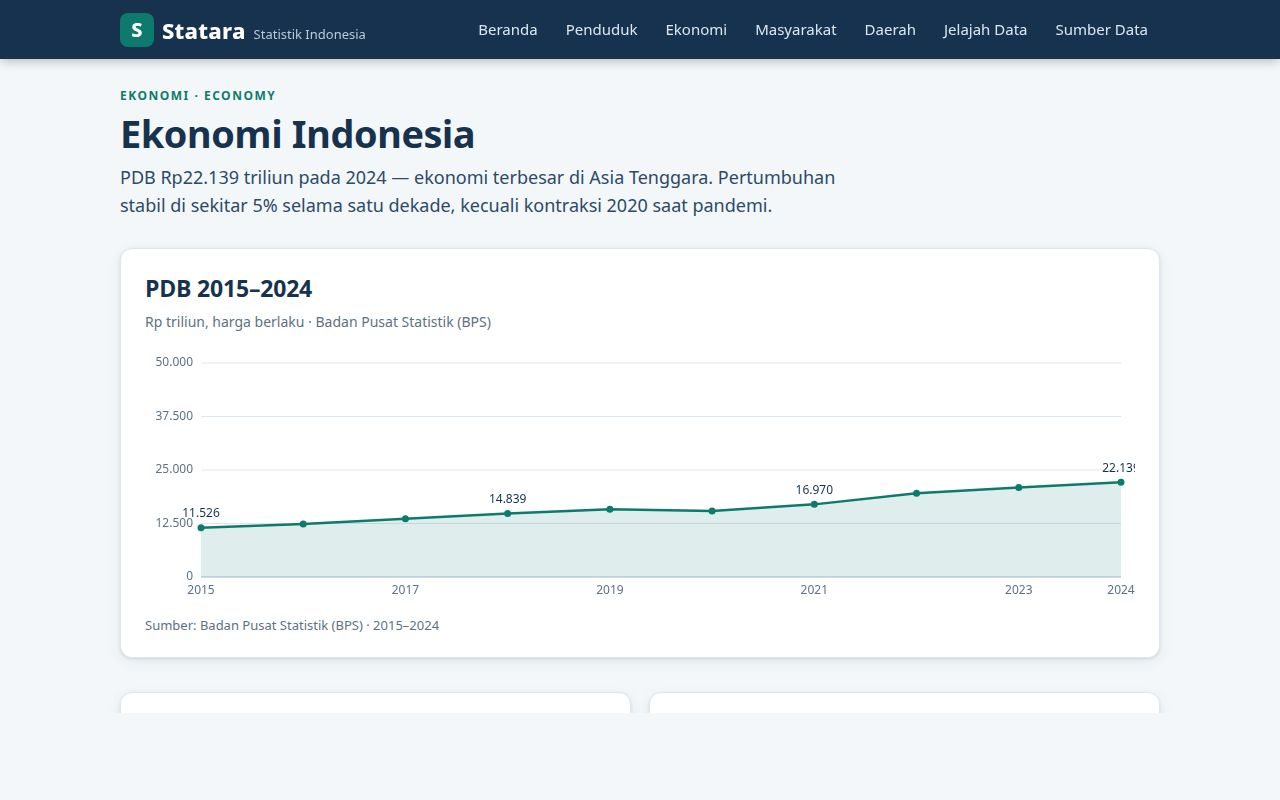
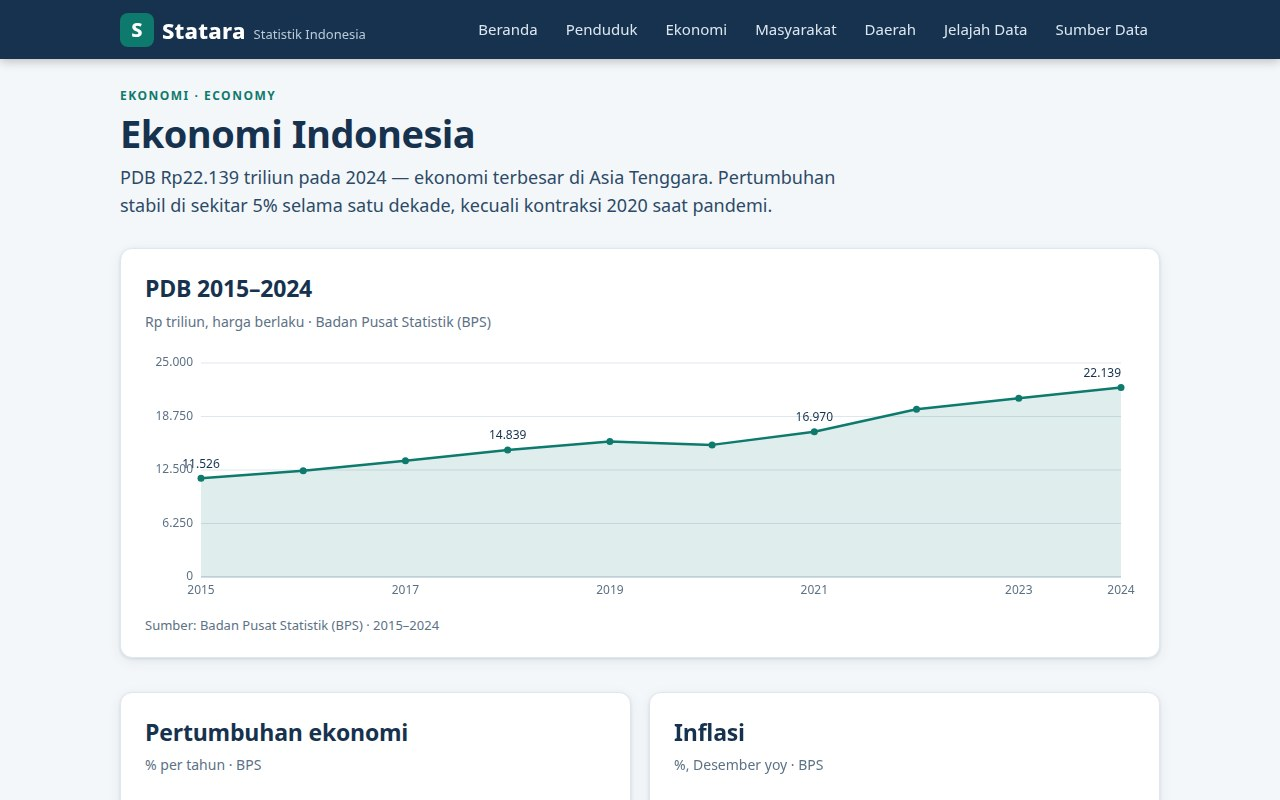
Fix first-point chart labels overlapping axis ticks

diff --git a/app/charts.js b/app/charts.js
@@ -36,7 +36,7 @@ function niceMax(max) {
 // Value labels above points: keep the first and last labels inside the canvas.
 function labelAlign(px, width) {
   if (px > width - 34) return 'right';
-  if (px < 34) return 'left';
+  if (px < 72) return 'left';
   return 'center';
 }
 
